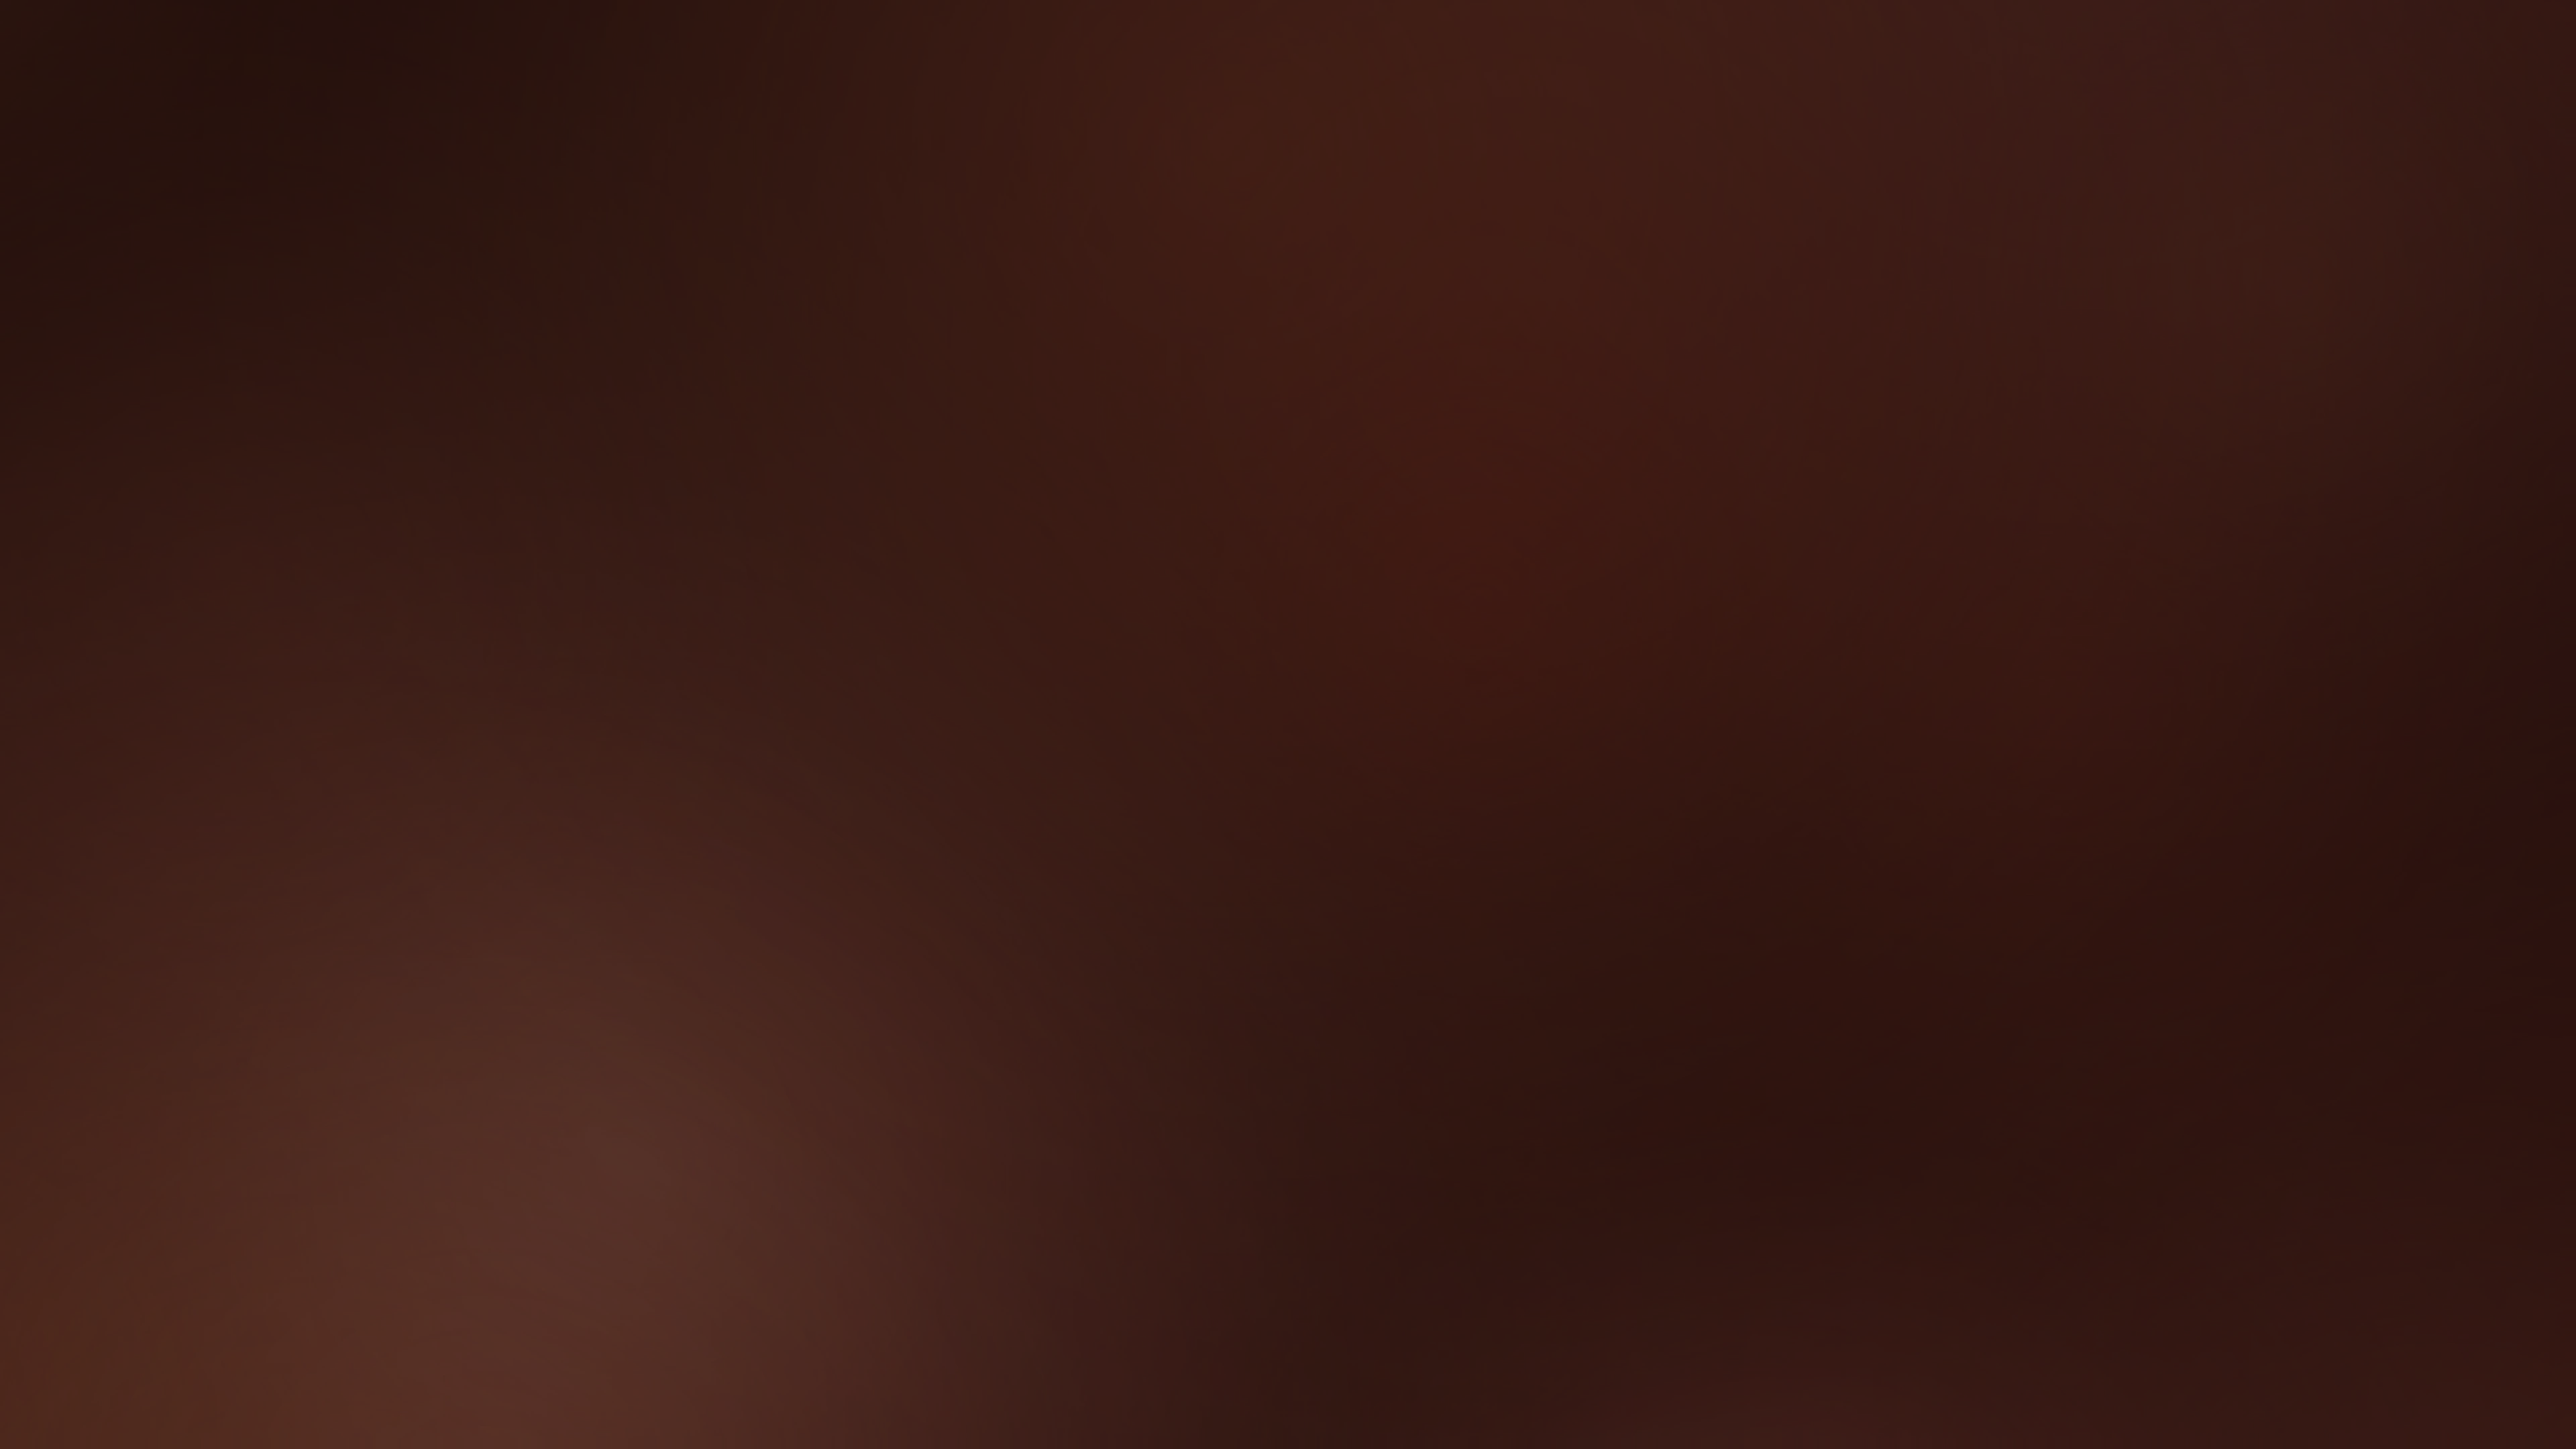
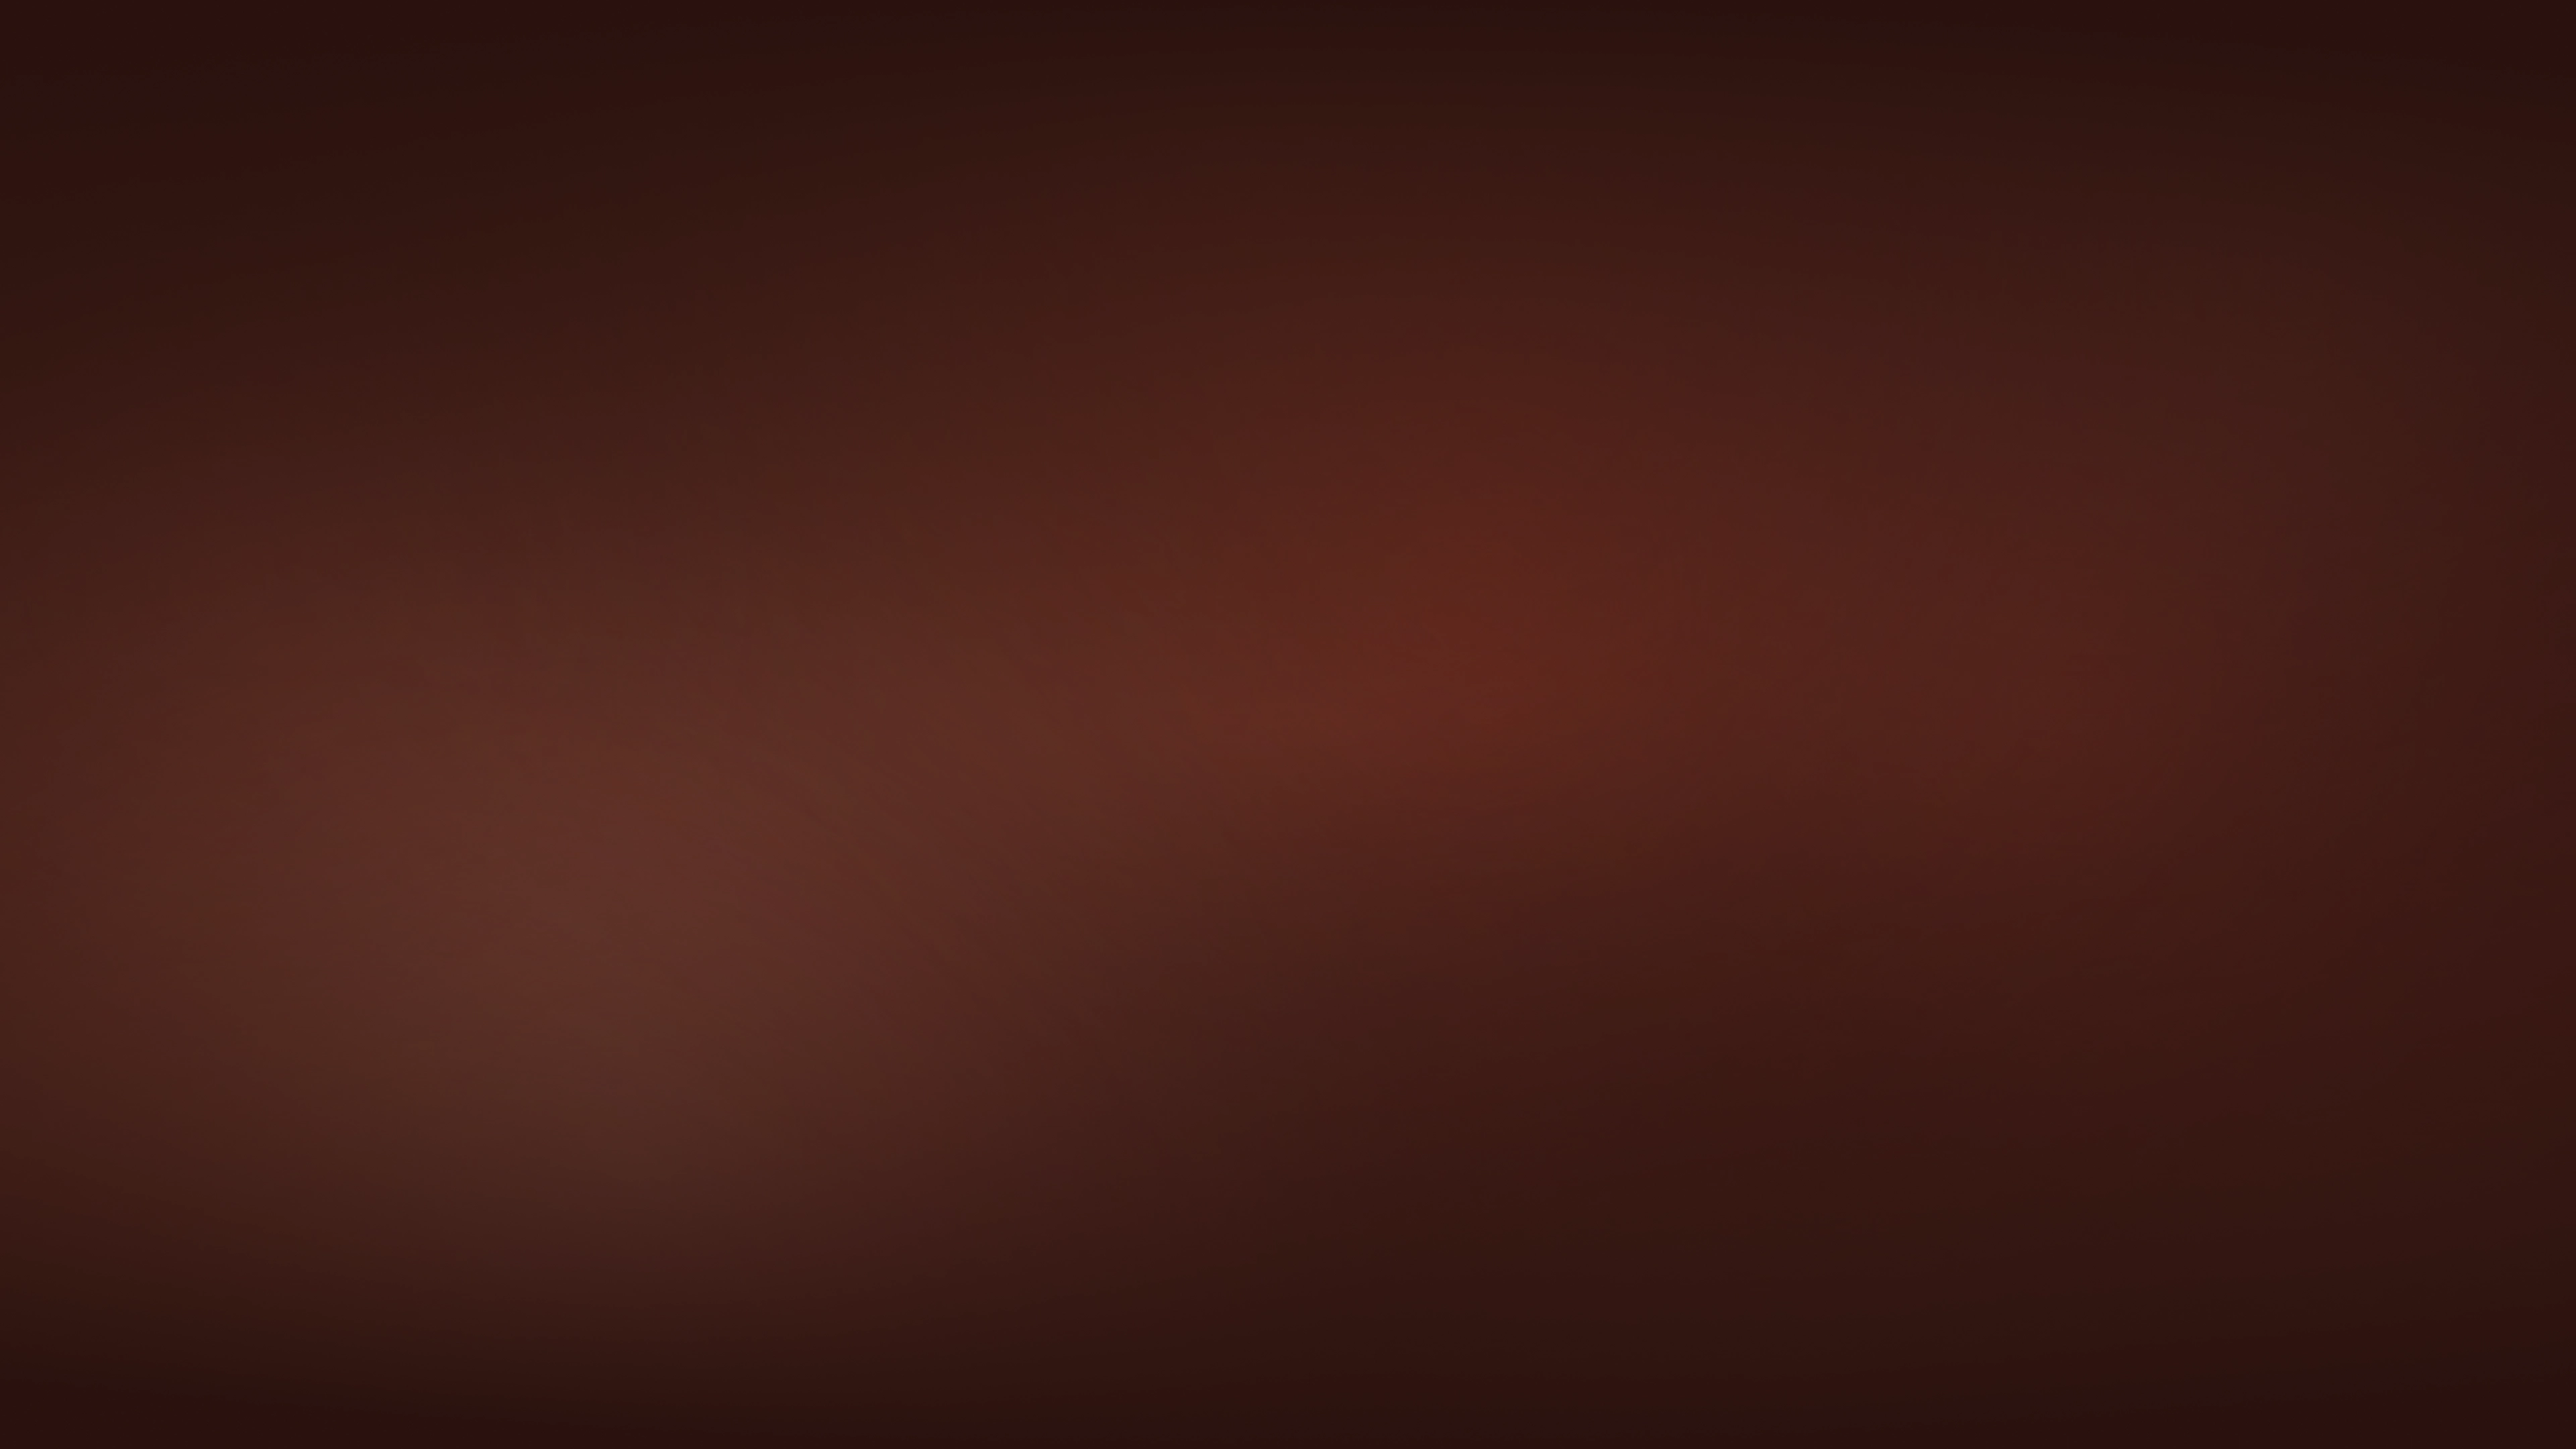
🍎 Make fixes for Safari

Changed region(s): [[0.1562, 0.3412, 0.8125, 0.6514], [0.0, 0.8685, 0.375, 1.0]]

diff --git a/styles.css b/styles.css
@@ -20,8 +20,8 @@ body {
     content: "";
     position: fixed;
     z-index: -1;
-    width: 100lvw;
-    height: 100lvh;
+    width: 100svw;
+    height: 100svh;
     background-image: url("./background_mobile.webp");
     background-position: center;
     background-size: cover;
@@ -91,7 +91,8 @@ button {
   background: none;
 }
 
-a:where(:visited) {
+a:where(:visited),
+a:any-link {
   color: inherit;
 }
 
